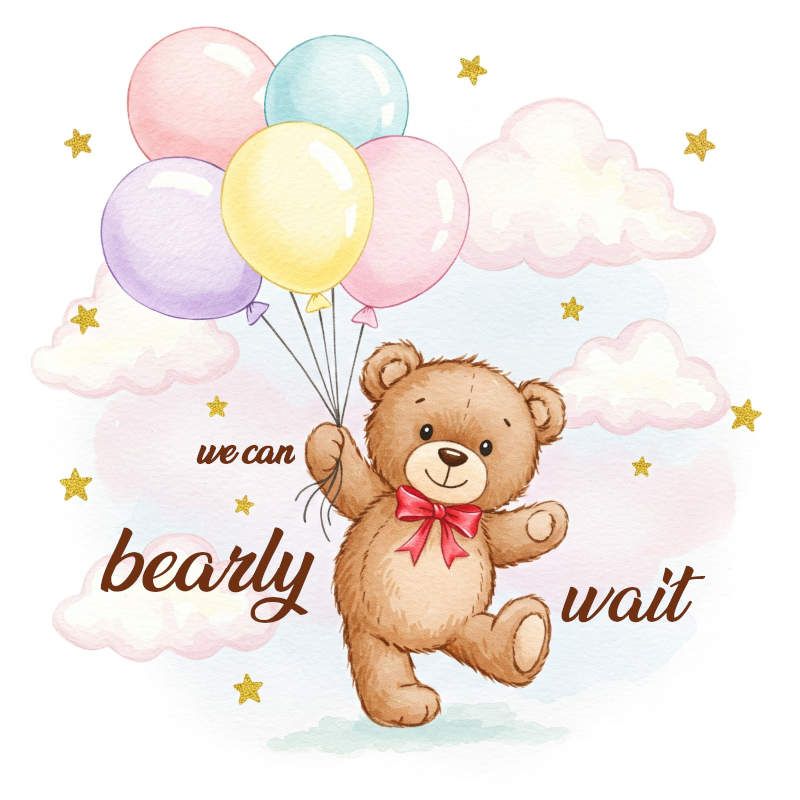
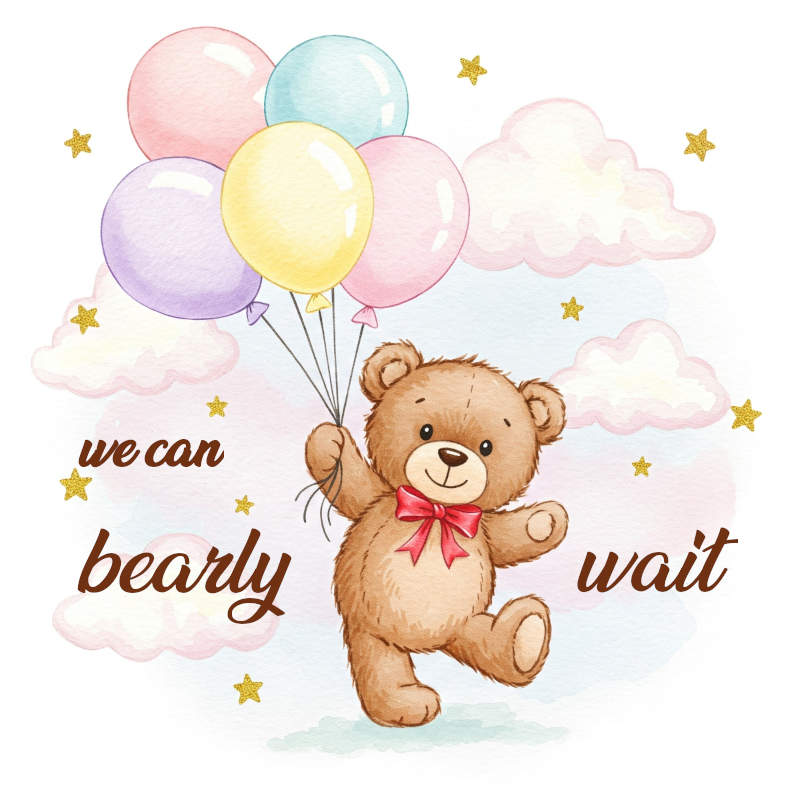
Refactor RSVP functionality and update styles; remove unused files

Changed region(s): [[0.0938, 0.6562, 0.4062, 0.7812], [0.6875, 0.6562, 0.9375, 0.7812], [0.0938, 0.5312, 0.375, 0.5938]]

diff --git a/site/index.html b/site/index.html
@@ -5,6 +5,7 @@
   <meta charset="UTF-8">
   <meta name="viewport" content="width=device-width, initial-scale=1.0">
   <title>Ankita's Baby Shower</title>
+  <link href="https://fonts.googleapis.com/css2?family=Righteous&display=swap" rel="stylesheet">
   <link href="https://cdn.jsdelivr.net/npm/bootstrap@5.3.3/dist/css/bootstrap.min.css" rel="stylesheet"
     integrity="sha384-QWTKZyjpPEjISv5WaRU9OFeRpok6YctnYmDr5pNlyT2bRjXh0JMhjY6hW+ALEwIH" crossorigin="anonymous">
   <link rel="stylesheet" href="index.css">
@@ -79,7 +80,7 @@
         </div>
       </div>
     </div>
-    <script src="rsvp.js"></script>
+    <script src="index.js"></script>
 </body>
 
 </html>

diff --git a/site/index.css b/site/index.css
@@ -1,5 +1,10 @@
+body {
+  font-family: "Righteous", sans-serif;
+  font-weight: 400;
+}
+
 #bear {
   width: auto;
-  height: 70vh;
+  max-height: 70vh;
   object-fit: contain;
 }
